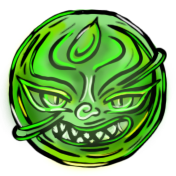
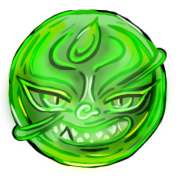
design: update custom high-resolution red and green ball assets and document in README.md

Changed region(s): [[0.0284, 0.0568, 0.9659, 0.9659], [0.5398, 0.3693, 0.5966, 0.3977], [0.4545, 0.483, 0.483, 0.5114]]

diff --git a/README.md b/README.md
@@ -104,6 +104,8 @@ Here is a look at our development progression and testing phases:
 ![Custom Art & Layering](photos/Screenshot%202026-06-20%20193846.png)
 *Integrating high-quality custom backgrounds (`back.png`) and bridge overlays (`front.png`) so balls roll underneath.*
 
+- **High-Resolution Custom Ball Assets**: Integrated custom high-resolution (**176 × 176 pixels**) ball designs for the red and green balls (`red_normal.png` and `green_normal.png`). These are automatically downscaled to 44px in-game to preserve details on high-DPI displays.
+
 ---
 
 ## 🕹️ How to Play & Design Locally